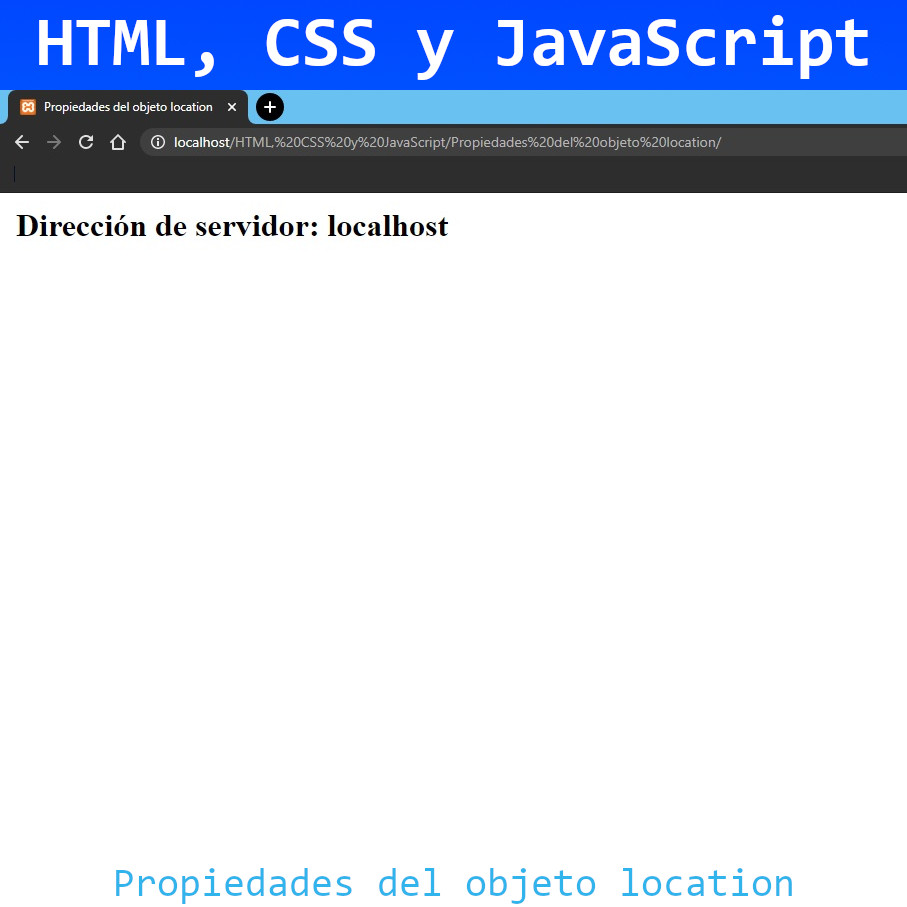
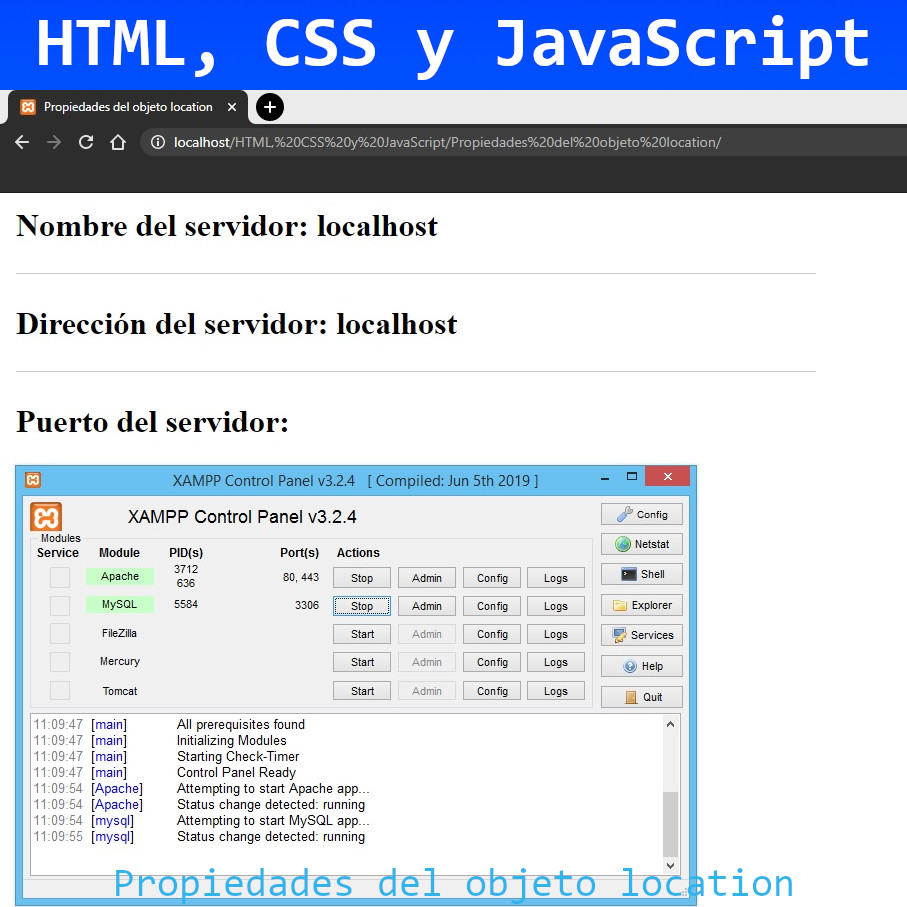
Propiedades del objeto document
Propiedades del objeto document en JavaScript

diff --git a/HTML, CSS y JavaScript/Propiedades del objeto location/js/funciones.js b/HTML, CSS y JavaScript/Propiedades del objeto location/js/funciones.js
@@ -2,11 +2,18 @@
 // declarar variable y asignar valor
 var servidor = location.host;
 // mostrar variable
-document.write("<h1>Servidor: "+servidor+"</h1>");
+document.write("<h1>Nombre del servidor: "+servidor+"</h1>");
 // SEPARACIÓN
 document.write("<hr>");
 // MOSTRAR DIRECCIÓN DE SERVIDOR
 // declarar variable y asignar valor
 var dir = location.hostname;
 // mostrar variable
-document.write("<h1>Dirección de servidor: "+dir+"</h1>");
+document.write("<h1>Dirección del servidor: "+dir+"</h1>");
+// SEPARACIÓN
+document.write("<hr>");
+// MOSTRAR DIRECCIÓN DE SERVIDOR
+// declarar variable y asignar valor
+var puerto = location.port;
+// mostrar variable
+document.write("<h1>Puerto del servidor: "+puerto+"</h1>");
